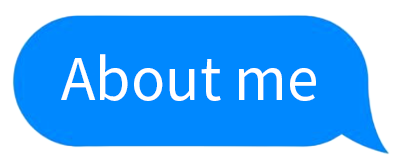
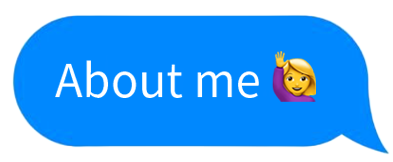
Loading background 이미지 제거

Changed region(s): [[0.1221, 0.3086, 0.8244, 0.6481]]

diff --git a/src/pages/Home.tsx b/src/pages/Home.tsx
@@ -34,7 +34,7 @@ export default function Home(){
                         className="
                             absolute right-[87%]
                             top-[23%] -translate-y-1/2
-                            w-32 lg:w-36 h-auto
+                            w-32 lg:w-40 h-auto
                             opacity-0 group-hover:opacity-100
                             transition-opacity duration-300
                             pointer-events-none"
@@ -60,7 +60,7 @@ export default function Home(){
             </Link>
             
             <Link to={`/project`}>
-                <div className="group absolute top-[70%] lg:top-[66%] left-[78%] lg:left-[60.5%] -translate-x-1/2 -translate-y-1/2 z-20">
+                <div className="group absolute top-[70%] lg:top-[66%] left-[75%] lg:left-[60.5%] -translate-x-1/2 -translate-y-1/2 z-20">
                     <img 
                         src={imessage_project}
                         className="

diff --git a/src/pages/Loading.tsx b/src/pages/Loading.tsx
@@ -1,5 +1,3 @@
-import backgroundImage from "../assets/background.png";
-
 export default function Loading() {
   return (
     <section 
